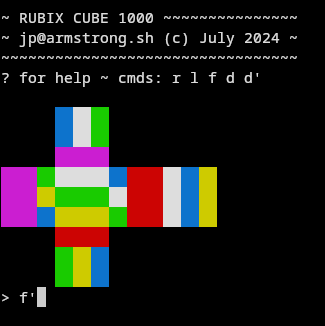
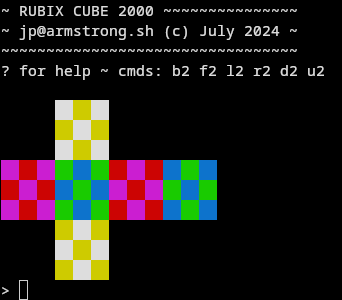
working cube!

diff --git a/rubix.c b/rubix.c
@@ -18,12 +18,12 @@ const byte F[] = {6, 3, 0, 7, 4, 1, 8, 5, 2};
 
 // adjacency matrix (face and rotation: T, R, L, B)
 const byte X[][4] = {
-  {0x40, 0x30, 0x20, 0x10}, // U
-  {0x02, 0x22, 0x52, 0x41}, // L
-  {0x03, 0x32, 0x50, 0x11}, // F
-  {0x01, 0x42, 0x51, 0x21}, // R
-  {0x00, 0x12, 0x53, 0x31}, // B
-  {0x13, 0x23, 0x33, 0x43}  // D
+  {0x40, 0x30, 0x20, 0x10}, // U 0000
+  {0x0A, 0x22, 0x52, 0x49}, // L 1001
+  {0x0B, 0x32, 0x58, 0x11}, // F 1010
+  {0x01, 0x4A, 0x59, 0x21}, // R 0110
+  {0x00, 0x1A, 0x53, 0x39}, // B 0101
+  {0x13, 0x23, 0x33, 0x43}  // D 0000
 };
 
 // adjacent edges
@@ -38,7 +38,7 @@ const byte E[][4] = {
 // get face and rotation from adjacent matrix
 #define fs(x, y) ((X[x][y] & 0xF0) >> 4)
 #define as(x, y)  (X[x][y] & 0x07)
-#define ss(x, y, z) ((z>0xF0)!=((X[x][y] & 0x08) >> 3))
+#define ss(x, y) ((X[x][y] & 0x08) >> 3)
 
 void rotate_face(byte *cube, byte f, byte a) {
   for(int i=0;i<9;i++) {
@@ -57,9 +57,10 @@ void rotate(byte *cube, byte f, byte a) {
     for(int i=0;i<4;i++) {
       for(int j=0;j<3;j++) {
         n = (4+i-1)%4;
-        int js =  E[as(f,n)][(i%2==0)?(2-j):j];
-        printf("js: %d, %d, %d, %d \n", a, (i%2==1)?(2-i):j, j, js);
-        *(cube + fs(f,i)*9 + E[as(f,i)][j]) = *(cube_ + (fs(f,n)*9) + js);
+        int p = E[as(f,i)][j];
+        int p_ = E[as(f,n)][(ss(f,i))?(2-j):j];
+//        printf("f: %d, i: %d, p: %d, p_: %d, ss: %d, X: %02x \n", f, i, p, p_, ss(f,i), X[f][i]);
+        *(cube + fs(f,i)*9 + p) = *(cube_ + (fs(f,n)*9) + p_);
       }
     }
   }

diff --git a/main.c b/main.c
@@ -50,7 +50,6 @@ void usage() {
 
 int execute(byte* cube, byte* cmd, int ci) {
   while(cmd[ci]!='\0'&&cmd[ci]!='\n') {
-    printf("? %c", cmd[ci]);
     if (cmd[ci]>='A' && cmd[ci]<='Z') {
       cmd[ci] += 32;
     }
